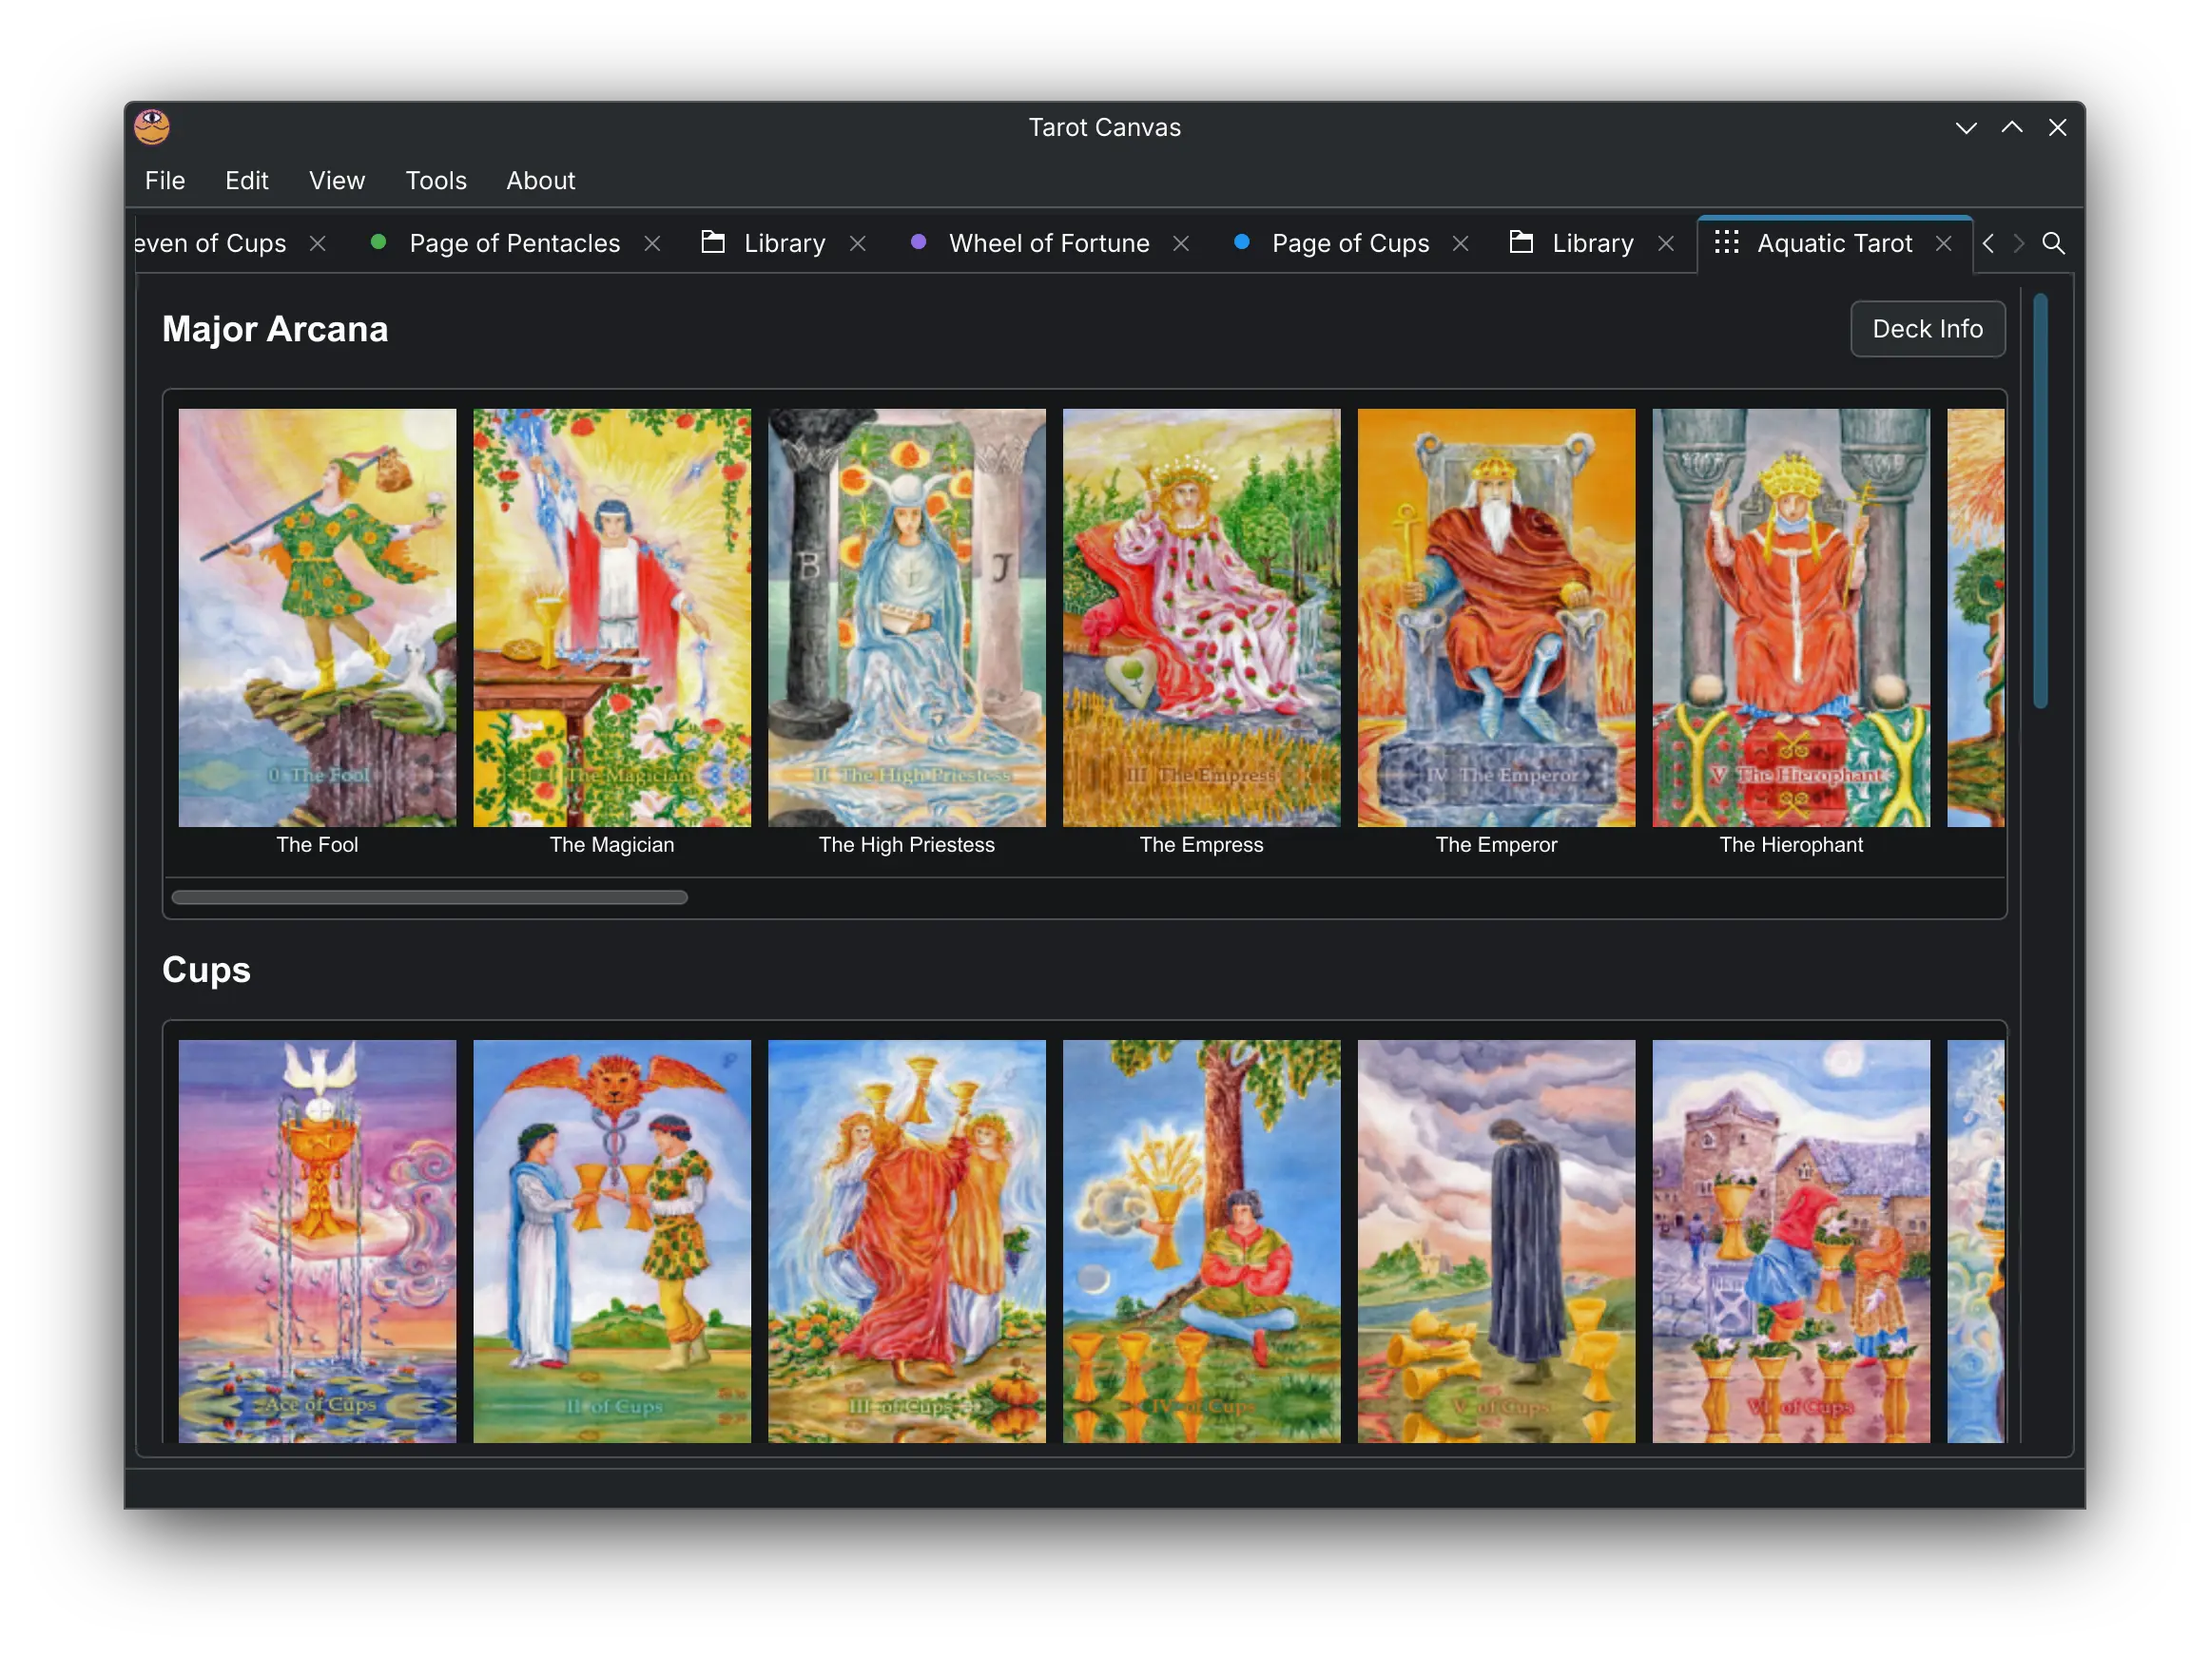
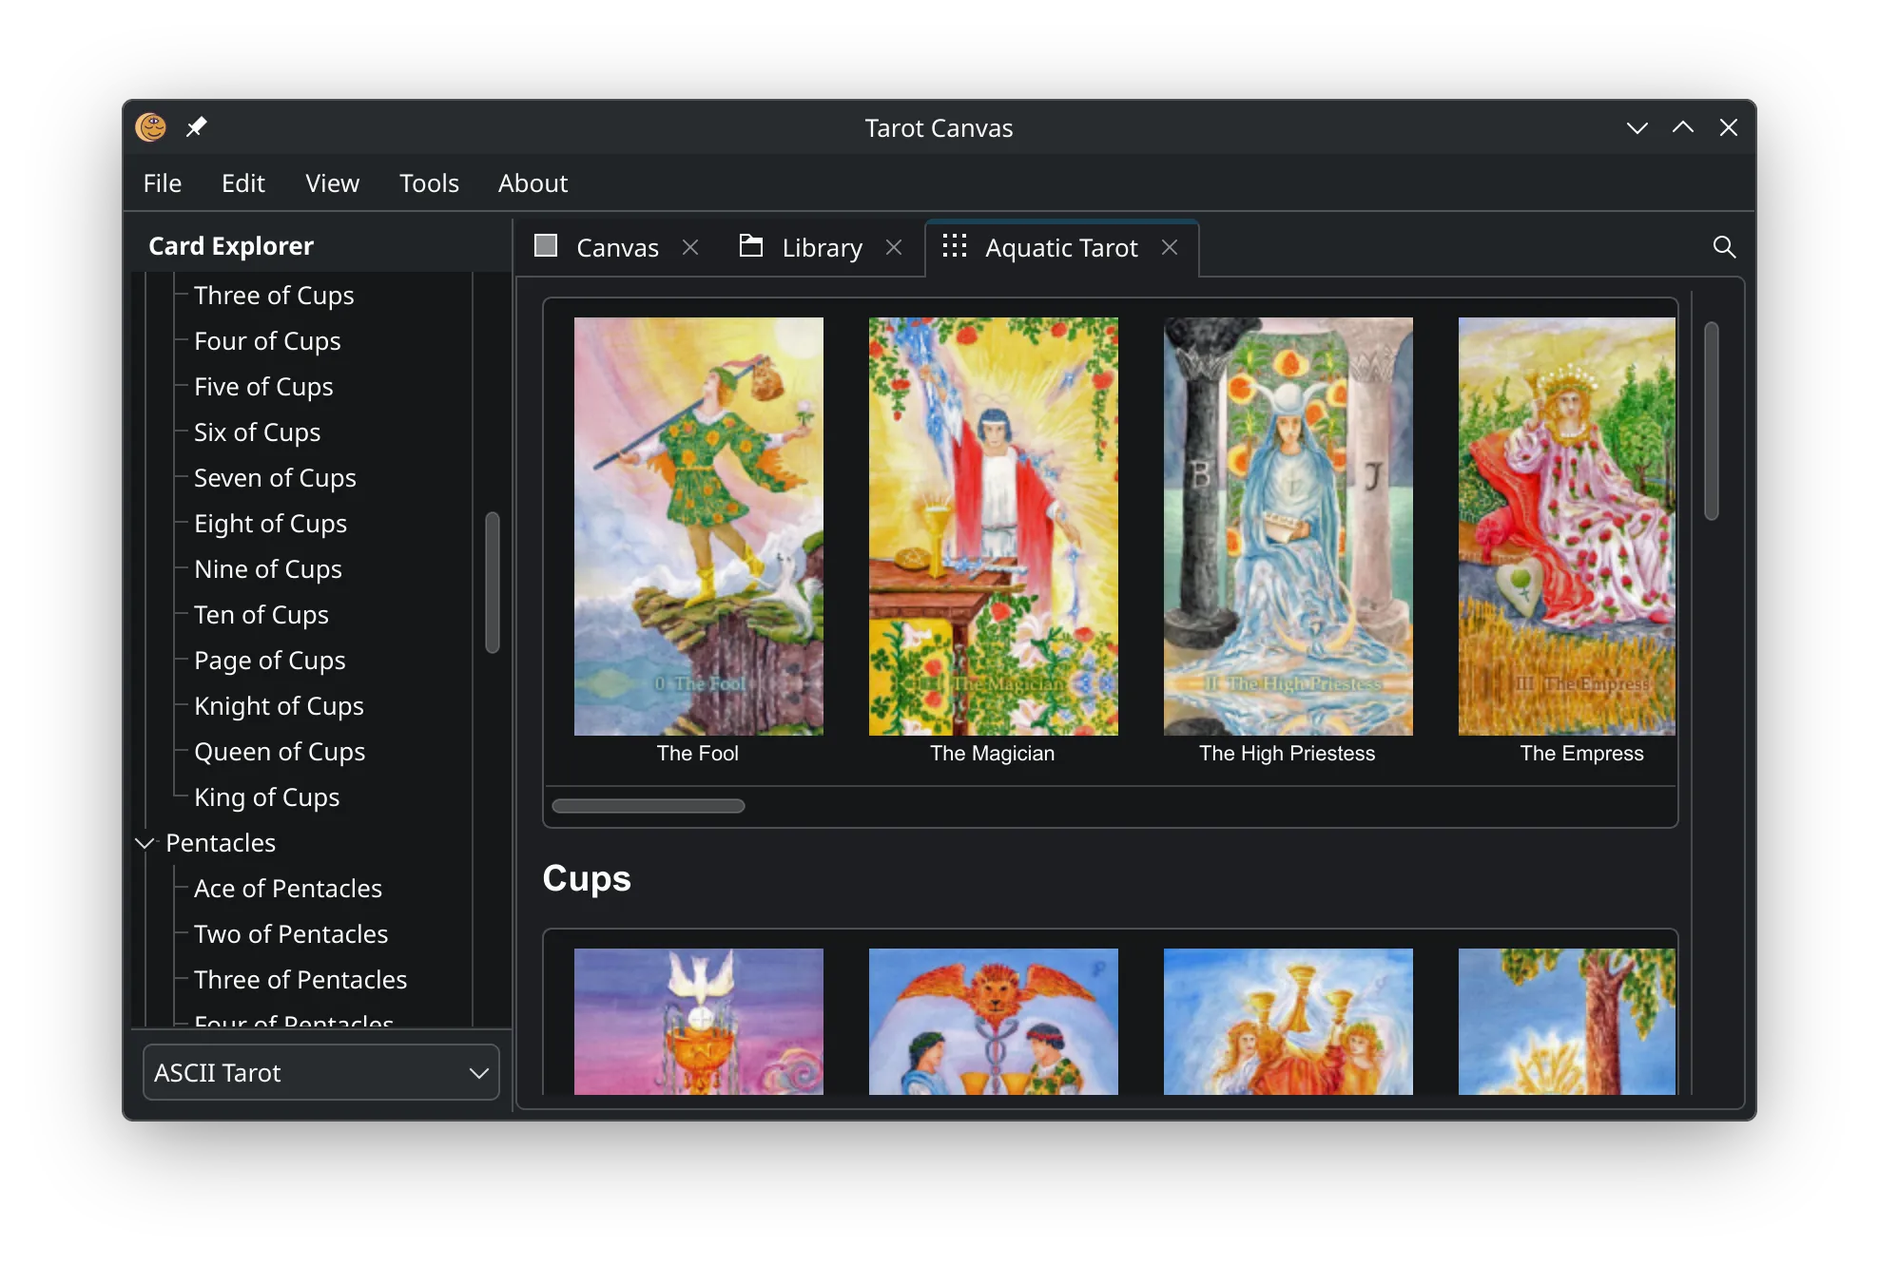
update screenshots + fix scaling bug in card view

diff --git a/tarot_canvas/ui/tabs/card_view_tab.py b/tarot_canvas/ui/tabs/card_view_tab.py
@@ -1,12 +1,13 @@
 import os
 from typing import ClassVar
 
-from PyQt6.QtCore import Qt, QTimer, pyqtSignal
+from PyQt6.QtCore import QEvent, Qt, QTimer, pyqtSignal
 from PyQt6.QtGui import QPixmap
 from PyQt6.QtWidgets import (
     QHBoxLayout,
     QLabel,
     QScrollArea,
+    QSizePolicy,
     QSplitter,
     QTabWidget,
     QVBoxLayout,
@@ -22,10 +23,30 @@ from tarot_canvas.ui.tabs.card_view.notes_tab import NotesTab
 from tarot_canvas.ui.tabs.card_view.overview_tab import OverviewTab
 
 
+def device_pixel_fit(source_size, available_width, available_height, dpr):
+    """Device-pixel size at which to render `source_size` into a logical-pixel box.
+
+    Widget geometry is in logical pixels, but on a scaled display the label paints
+    width * dpr real pixels. Scaling a card to the logical size therefore hands Qt a
+    pixmap it has to upscale at paint time, which is what makes the card look soft --
+    at 200% it threw away half the resolution the source file already has.
+
+    Caller must tag the result with setDevicePixelRatio(dpr) so layout still sees the
+    logical size. The 1.0 cap keeps us from interpolating past one source pixel per
+    device pixel.
+    """
+    width_scale = available_width * dpr / source_size.width()
+    height_scale = available_height * dpr / source_size.height()
+    scale = min(width_scale, height_scale, 1.0)
+    return (
+        max(1, round(source_size.width() * scale)),
+        max(1, round(source_size.height() * scale)),
+    )
+
+
 class CardViewTab(BaseTab):
     # Signal to notify the main window that we want to navigate
     navigation_requested = pyqtSignal(str, object)
-    resized = pyqtSignal()  # Signal to handle resize events
 
     # Define color mapping for card types and suits
     COLOR_MAP: ClassVar[dict] = {
@@ -36,6 +57,9 @@ class CardViewTab(BaseTab):
         "pentacles": "#4caf50",  # Green for Pentacles
         "default": "#9e9e9e",  # Gray for unknown
     }
+
+    # Smallest the image pane may become.
+    MIN_IMAGE_PANE_WIDTH = 120
 
     def __init__(self, card=None, deck=None, source_tab_id=None, parent=None):
         super().__init__(parent)
@@ -82,7 +106,8 @@ class CardViewTab(BaseTab):
 
         self.image_label = QLabel()
         self.image_label.setAlignment(Qt.AlignmentFlag.AlignCenter)
-        self.image_label.setMinimumWidth(200)
+        self.image_label.setSizePolicy(QSizePolicy.Policy.Ignored, QSizePolicy.Policy.Preferred)
+        self.image_label.setMinimumSize(1, 1)
 
         # Add image to inner container with stretches for vertical centering
         image_inner_layout.addStretch(1)
@@ -100,6 +125,8 @@ class CardViewTab(BaseTab):
         self.scroll_area = QScrollArea()
         self.scroll_area.setWidgetResizable(True)
         self.scroll_area.setWidget(image_container)
+        self.scroll_area.setMinimumWidth(self.MIN_IMAGE_PANE_WIDTH)
+        self.scroll_area.viewport().installEventFilter(self)
 
         # Load and display the image
         self.load_image()
@@ -138,17 +165,16 @@ class CardViewTab(BaseTab):
 
         splitter.addWidget(info_widget)
 
-        # Set initial splitter sizes
+        # Set initial splitter sizes, and keep that 40/60 split as the window resizes
         splitter.setSizes([int(self.width() * 0.4), int(self.width() * 0.6)])
+        splitter.setStretchFactor(0, 4)
+        splitter.setStretchFactor(1, 6)
 
         # Add splitter to main layout
         main_layout.addWidget(splitter)
 
         # Set the main layout
         self.layout.addLayout(main_layout)
-
-        # Connect resize event to update image size
-        self.resized.connect(self.resize_image)
 
     def load_image(self):
         """Load and initially display the card image"""
@@ -176,31 +202,25 @@ class CardViewTab(BaseTab):
         if not hasattr(self, "scroll_area") or not self.scroll_area:
             return
 
-        # Calculate available space (account for reduced padding)
-        available_width = (
-            self.scroll_area.width() - 20
-        )  # Reduced from 40 to 20 (5px padding on each side)
-        available_height = self.scroll_area.height() - 20
+        # Measure the viewport: the scroll area's own width includes the frame and
+        # any scrollbar, and scaling to it is what makes the card overflow its pane.
+        viewport = self.scroll_area.viewport()
+        available_width = viewport.width() - 20  # 5px container padding each side
+        available_height = viewport.height() - 20 - self.deck_switcher_height()
 
-        # Get original image dimensions
-        pixmap_width = self.original_pixmap.width()
-        pixmap_height = self.original_pixmap.height()
+        dpr = viewport.devicePixelRatioF()
+
+        if available_width <= 0 or available_height <= 0:
+            return
 
         # Use reasonable default if dimensions are 0
-        if pixmap_width <= 0 or pixmap_height <= 0:
+        if self.original_pixmap.width() <= 0 or self.original_pixmap.height() <= 0:
             self.image_label.setPixmap(self.original_pixmap)
             return
 
-        # Calculate scaling factor
-        width_scale = available_width / pixmap_width
-        height_scale = available_height / pixmap_height
-
-        # Use smaller scale to ensure image fits
-        scale = min(width_scale, height_scale, 1.0)  # Don't scale up images larger than original
-
-        # Apply scaling
-        new_width = int(pixmap_width * scale)
-        new_height = int(pixmap_height * scale)
+        new_width, new_height = device_pixel_fit(
+            self.original_pixmap.size(), available_width, available_height, dpr
+        )
 
         # Create scaled pixmap
         scaled_pixmap = self.original_pixmap.scaled(
@@ -210,13 +230,26 @@ class CardViewTab(BaseTab):
             Qt.TransformationMode.SmoothTransformation,
         )
 
+        scaled_pixmap.setDevicePixelRatio(dpr)
+
         # Apply to label
         self.image_label.setPixmap(scaled_pixmap)
 
-    def resizeEvent(self, event):
-        """Handle resize events"""
-        super().resizeEvent(event)
-        self.resized.emit()
+    def deck_switcher_height(self):
+        """Vertical space the deck switcher takes from the image, if it is shown"""
+        if not hasattr(self, "deck_switcher") or not self.deck_switcher.isVisible():
+            return 0
+        return self.deck_switcher.sizeHint().height()
+
+    def eventFilter(self, obj, event):
+        """Rescale the card whenever the scroll area's viewport changes size"""
+        if (
+            hasattr(self, "scroll_area")
+            and obj is self.scroll_area.viewport()
+            and event.type() in (QEvent.Type.Resize, QEvent.Type.DevicePixelRatioChange)
+        ):
+            self.resize_image()
+        return super().eventFilter(obj, event)
 
     def update_tab_name(self):
         """Update the tab name and add color dot based on card type/suit"""

diff --git a/tests/gui/test_card_view_tab.py b/tests/gui/test_card_view_tab.py
@@ -1,0 +1,98 @@
+import shutil
+
+import pytest
+from PyQt6.QtCore import QSize
+from PyQt6.QtGui import QColor, QPixmap
+
+from tarot_canvas.models.deck import TarotDeck
+from tarot_canvas.ui.tabs.card_view_tab import CardViewTab, device_pixel_fit
+from tests.conftest import MINIMAL_DECK_PATH
+
+
+@pytest.fixture
+def big_image_deck(tmp_path):
+    """The minimal deck, with card images at a realistic size.
+
+    The checked-in fixture images are 1x1, which cannot exercise any scaling.
+    """
+    deck_path = tmp_path / "deck"
+    shutil.copytree(MINIMAL_DECK_PATH, deck_path)
+
+    pixmap = QPixmap(600, 900)
+    pixmap.fill(QColor("steelblue"))
+    for image in deck_path.rglob("*.png"):
+        pixmap.save(str(image))
+
+    return TarotDeck(str(deck_path))
+
+
+def make_tab(qtbot, deck, width, height, deck_count=1, stub=None):
+    if stub is not None:
+        stub.get_all_decks = lambda: [deck] * deck_count
+        stub.get_reference_deck = lambda: deck
+
+    card = next(c for c in deck.get_all_cards() if c.get("image"))
+    tab = CardViewTab(card=card, deck=deck)
+    qtbot.addWidget(tab)
+    tab.resize(width, height)
+    tab.show()
+    qtbot.waitExposed(tab)
+    return tab
+
+
+@pytest.mark.parametrize("width", [1600, 1000, 700, 500])
+def test_image_pane_never_clips_its_contents(qtbot, big_image_deck, stub_deck_manager, width):
+    """The card pane must shrink with the window instead of overflowing it."""
+    tab = make_tab(qtbot, big_image_deck, width, 900, deck_count=2, stub=stub_deck_manager)
+
+    scroll_area = tab.scroll_area
+    assert scroll_area.horizontalScrollBar().maximum() == 0
+    assert scroll_area.widget().width() <= scroll_area.viewport().width()
+
+
+def test_card_is_scaled_to_fit_the_visible_pane(qtbot, big_image_deck, stub_deck_manager):
+    tab = make_tab(qtbot, big_image_deck, 900, 900, deck_count=2, stub=stub_deck_manager)
+
+    viewport = tab.scroll_area.viewport()
+    pixmap = tab.image_label.pixmap()
+    assert pixmap.width() <= viewport.width()
+    assert pixmap.height() <= viewport.height()
+    # and the label is actually tall enough to draw it
+    assert tab.image_label.height() >= pixmap.height()
+
+
+def test_card_fills_a_wide_pane_without_waiting_for_a_resize(qtbot, big_image_deck):
+    """The first scale must use settled geometry, not the pre-layout size."""
+    tab = make_tab(qtbot, big_image_deck, 1600, 1200)
+
+    viewport = tab.scroll_area.viewport()
+    pixmap = tab.image_label.pixmap()
+    assert pixmap.width() > viewport.width() * 0.8
+
+
+def test_deck_switcher_does_not_pin_the_pane_wide(qtbot, big_image_deck, stub_deck_manager):
+    """A long deck name must elide rather than force a minimum width on the pane."""
+    tab = make_tab(qtbot, big_image_deck, 700, 900, deck_count=2, stub=stub_deck_manager)
+
+    tab.deck_switcher.deck_combo.addItem("A Deck With An Extravagantly Long Name " * 3)
+    assert tab.deck_switcher.minimumSizeHint().width() < CardViewTab.MIN_IMAGE_PANE_WIDTH
+
+
+@pytest.mark.parametrize("dpr", [1.0, 1.5, 2.0])
+def test_card_is_rendered_at_full_device_resolution(dpr):
+    """A scaled display must get dpr times as many real pixels, not the logical size."""
+    source = QSize(683, 1200)
+    width, height = device_pixel_fit(source, 300, 600, dpr)
+
+    # fills the box: 300x600 logical is width-bound for a 683x1200 card
+    assert width == pytest.approx(300 * dpr, abs=1)
+    assert width / height == pytest.approx(source.width() / source.height(), rel=0.01)
+    # and laying it out at its own dpr puts it back inside the pane
+    assert width / dpr <= 300
+    assert height / dpr <= 600
+
+
+def test_card_is_never_interpolated_past_its_source_resolution():
+    """A card smaller than the pane stays 1:1 rather than being blown up."""
+    source = QSize(305, 527)
+    assert device_pixel_fit(source, 1200, 2000, 2.0) == (305, 527)

diff --git a/tarot_canvas/ui/tabs/card_view/deck_switcher.py b/tarot_canvas/ui/tabs/card_view/deck_switcher.py
@@ -1,7 +1,7 @@
 import os
 
 from PyQt6.QtGui import QIcon
-from PyQt6.QtWidgets import QComboBox, QHBoxLayout, QPushButton, QWidget
+from PyQt6.QtWidgets import QComboBox, QHBoxLayout, QPushButton, QSizePolicy, QWidget
 
 
 class DeckSwitcher(QWidget):
@@ -29,6 +29,11 @@ class DeckSwitcher(QWidget):
 
         # Deck selection combo box
         self.deck_combo = QComboBox()
+        self.deck_combo.setSizeAdjustPolicy(
+            QComboBox.SizeAdjustPolicy.AdjustToMinimumContentsLengthWithIcon
+        )
+        self.deck_combo.setMinimumContentsLength(6)
+        self.deck_combo.setSizePolicy(QSizePolicy.Policy.Ignored, QSizePolicy.Policy.Fixed)
         self.deck_combo.currentIndexChanged.connect(self.on_deck_selected)
         layout.addWidget(self.deck_combo, 1)  # Give combo box stretch priority
 
